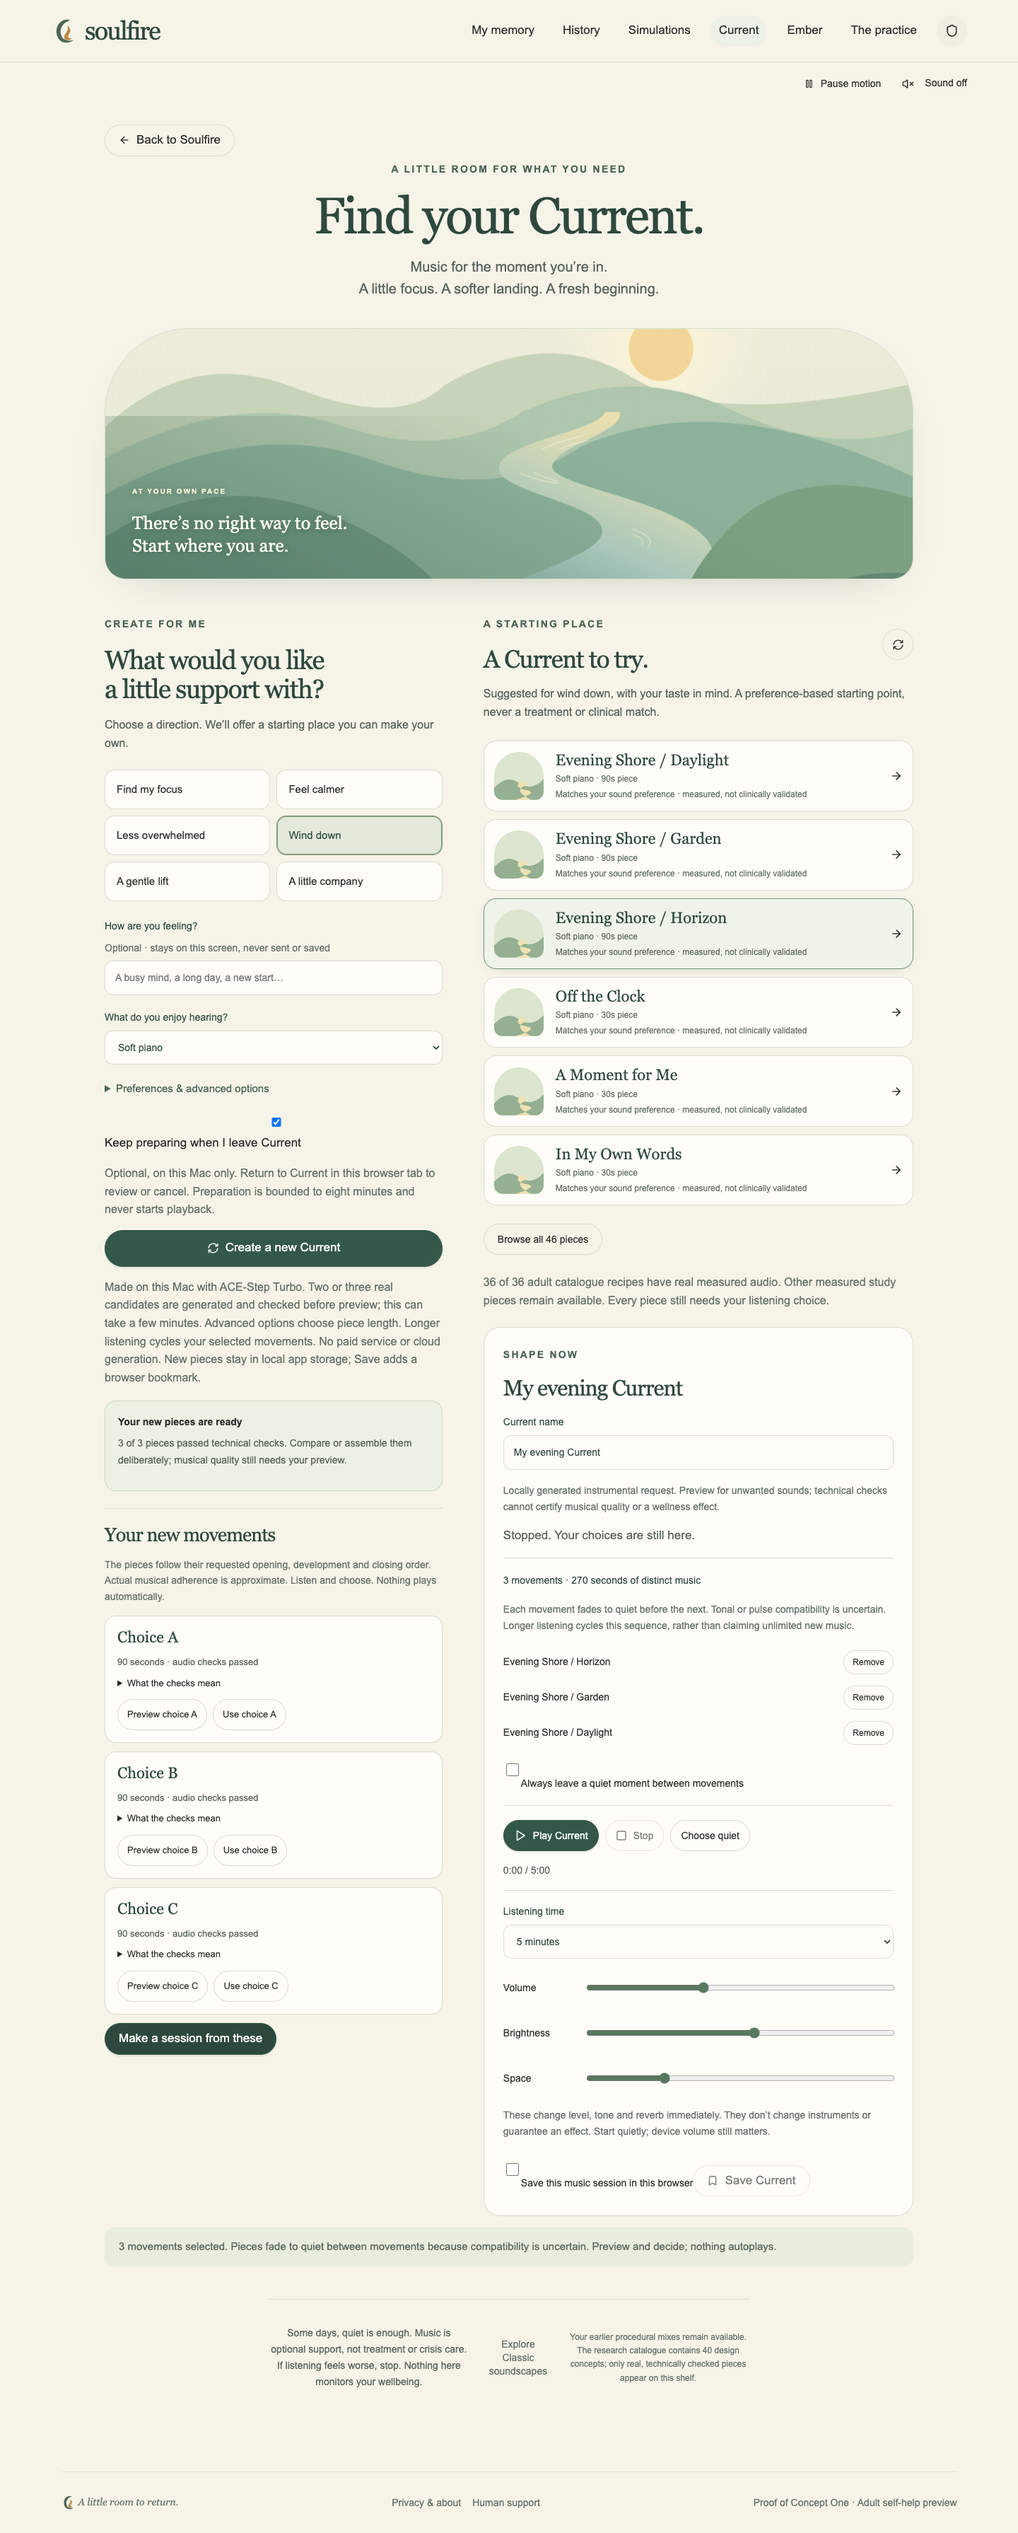
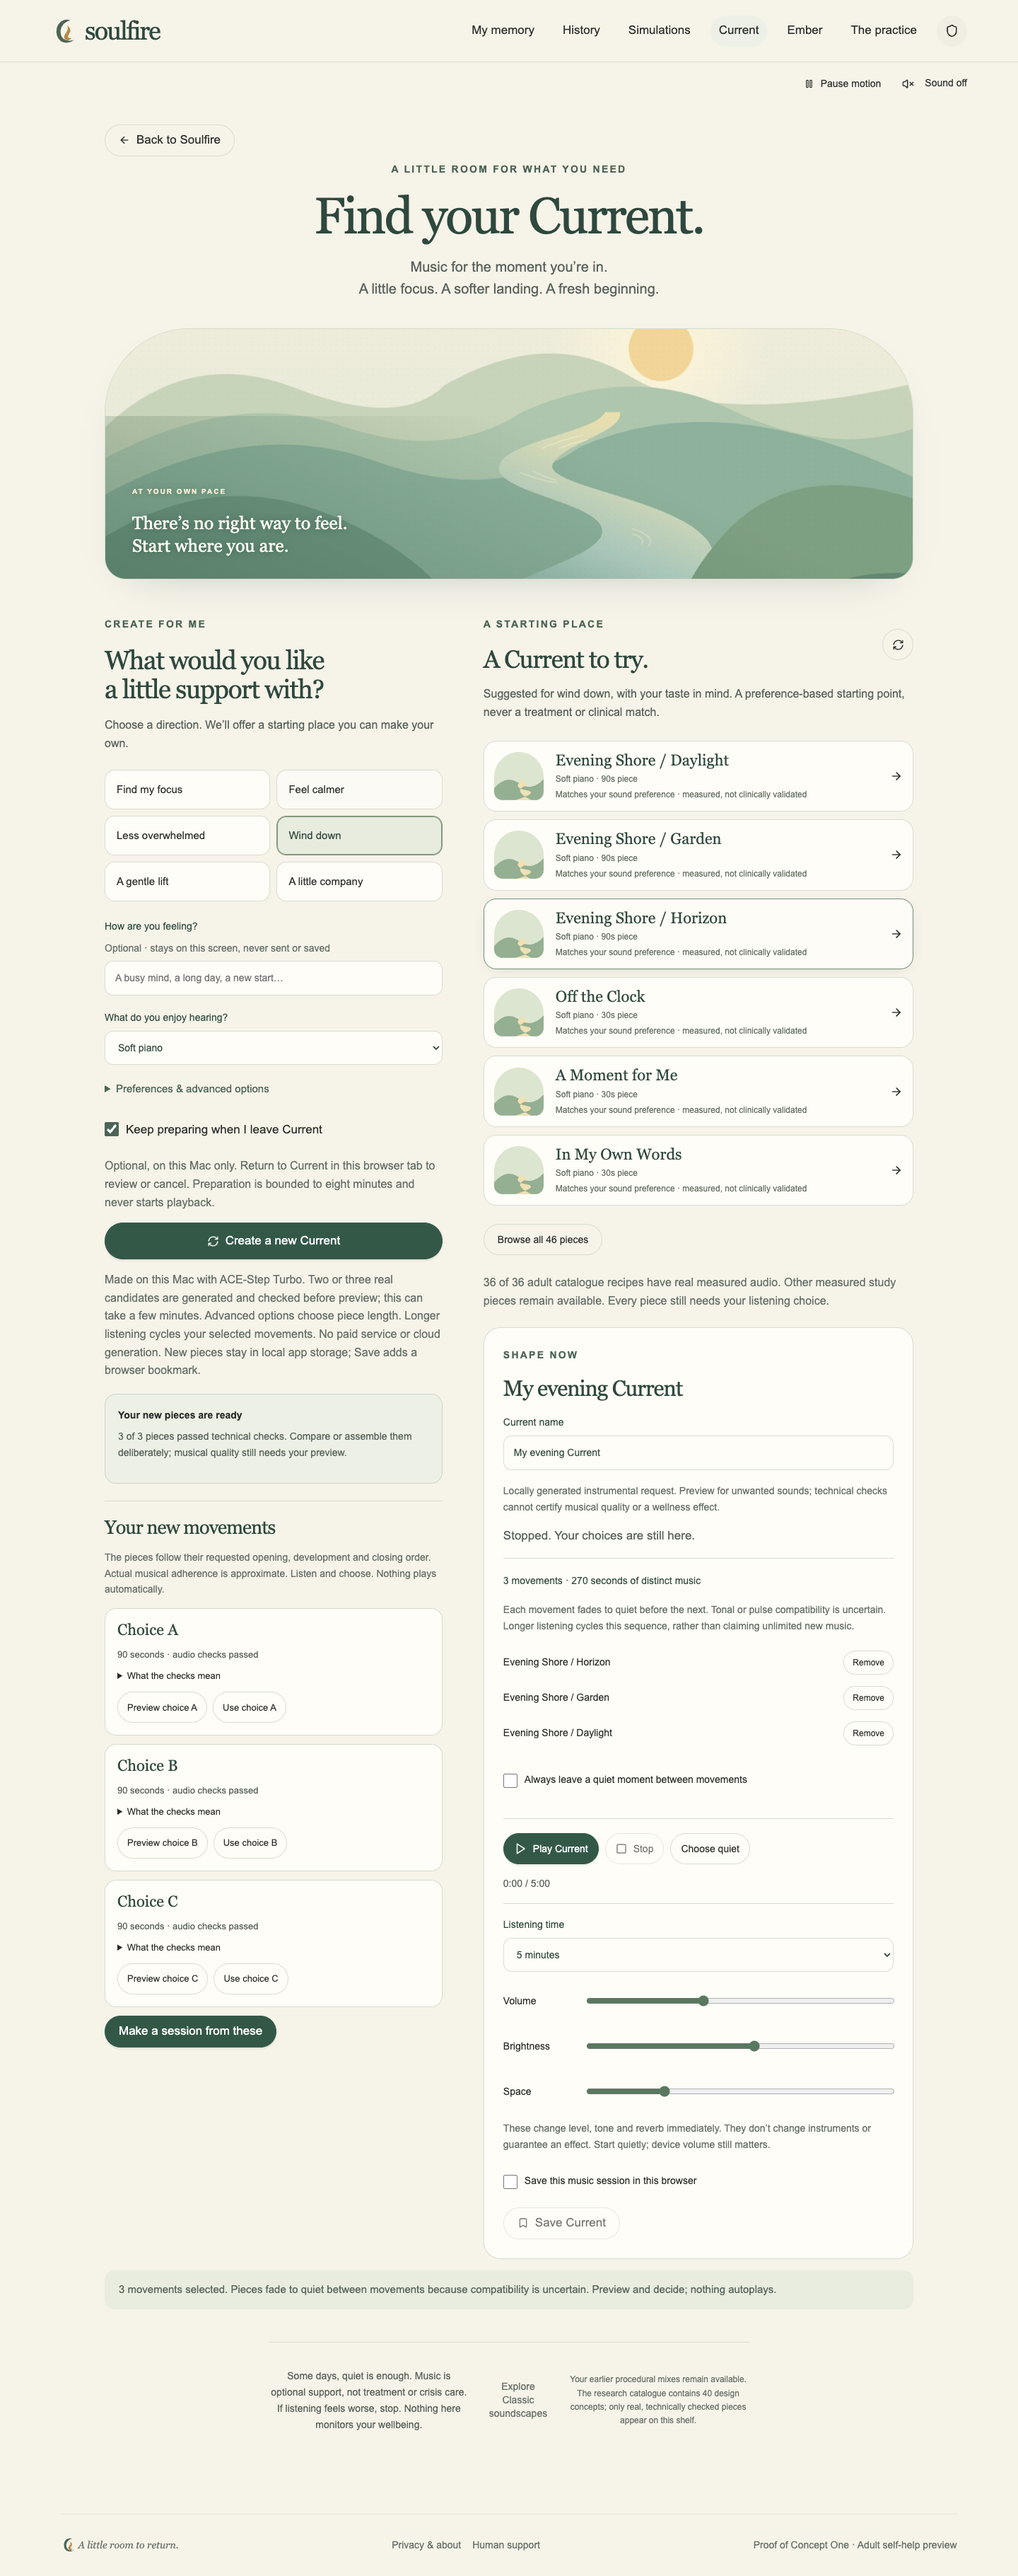
Align Current checkbox labels and accessible targets

diff --git a/tests/browser/current-music.spec.ts b/tests/browser/current-music.spec.ts
@@ -739,3 +739,34 @@ test("customization bounds two/three compositions and 30/60/90 second pieces", a
   expect(sent?.mode).toBe("session");
   expect((sent?.request as { seconds: number }).seconds).toBe(90);
 });
+
+test("checkbox rows align, wrap and toggle through labels and keyboard", async ({
+  page,
+}) => {
+  await open(page);
+  await page.locator(".cm-starter").first().click();
+  const rows = page.locator(".current-music .check-row");
+  await expect(rows).toHaveCount(3);
+  for (const row of await rows.all()) {
+    const checkbox = row.getByRole("checkbox"),
+      caption = row.locator("span");
+    const box = await checkbox.boundingBox(),
+      text = await caption.boundingBox(),
+      target = await row.boundingBox();
+    expect(box && text && target).toBeTruthy();
+    expect(box!.width).toBeLessThanOrEqual(22);
+    expect(box!.height).toBeLessThanOrEqual(22);
+    expect(target!.height).toBeGreaterThanOrEqual(44);
+    expect(text!.x).toBeGreaterThanOrEqual(box!.x + box!.width + 8);
+    expect(Math.abs(text!.y - box!.y)).toBeLessThanOrEqual(4);
+    expect(text!.x + text!.width).toBeLessThanOrEqual(
+      target!.x + target!.width + 1,
+    );
+    const initial = await checkbox.isChecked();
+    await caption.click();
+    await expect(checkbox).toBeChecked({ checked: !initial });
+    await checkbox.focus();
+    await page.keyboard.press("Space");
+    await expect(checkbox).toBeChecked({ checked: initial });
+  }
+});

diff --git a/src/components/CurrentPanel.tsx b/src/components/CurrentPanel.tsx
@@ -703,7 +703,7 @@ function MusicCurrent({
               onChange={(e) => setContinueInBackground(e.target.checked)}
               disabled={running}
             />
-            Keep preparing when I leave Current
+            <span>Keep preparing when I leave Current</span>
           </label>
           <p className="small">
             Optional, on this Mac only. Return to Current in this browser tab to
@@ -1011,7 +1011,7 @@ function MusicCurrent({
                           setQuietTransitions(e.target.checked);
                         }}
                       />
-                      Always leave a quiet moment between movements
+                      <span>Always leave a quiet moment between movements</span>
                     </label>
                   </div>
                 )}
@@ -1118,7 +1118,7 @@ function MusicCurrent({
                     checked={saveConsent}
                     onChange={(e) => setSaveConsent(e.target.checked)}
                   />
-                  Save this music session in this browser
+                  <span>Save this music session in this browser</span>
                 </label>
                 <button
                   disabled={!saveConsent || storageBad || !name.trim()}

diff --git a/app/globals.css b/app/globals.css
@@ -3889,7 +3889,7 @@ aside > p {
 }
 .cm-intention .current-field input,
 .cm-intention select,
-.cm-shape input:not([type="range"]),
+.cm-shape input:not([type="range"]):not([type="checkbox"]):not([type="radio"]),
 .cm-shape select {
   background: #fffdf8;
   max-width: 100%;
@@ -3922,12 +3922,34 @@ aside > p {
   margin: 8px 0;
   font-size: 15px;
 }
-.cm-preferences input[type="checkbox"],
-.cm-shape input[type="checkbox"] {
+.current-music .check-row {
+  display: flex;
+  align-items: flex-start;
+  gap: 10px;
+  min-height: 44px;
+  padding: 10px 0;
+  line-height: 1.5;
+  cursor: pointer;
+}
+.current-music .check-row > span {
+  flex: 1;
+  min-width: 0;
+}
+.cm-preferences fieldset label {
+  min-height: 44px;
+  padding: 10px 0;
+  cursor: pointer;
+}
+.current-music input[type="checkbox"] {
+  display: block;
   accent-color: #4c6456;
-  width: 18px;
-  height: 18px;
-  flex-shrink: 0;
+  width: 20px;
+  height: 20px;
+  min-height: 20px;
+  flex: 0 0 20px;
+  padding: 0;
+  margin: 2px 0 0;
+  border-radius: 3px;
 }
 .cm-intention > .primary {
   width: 100%;
